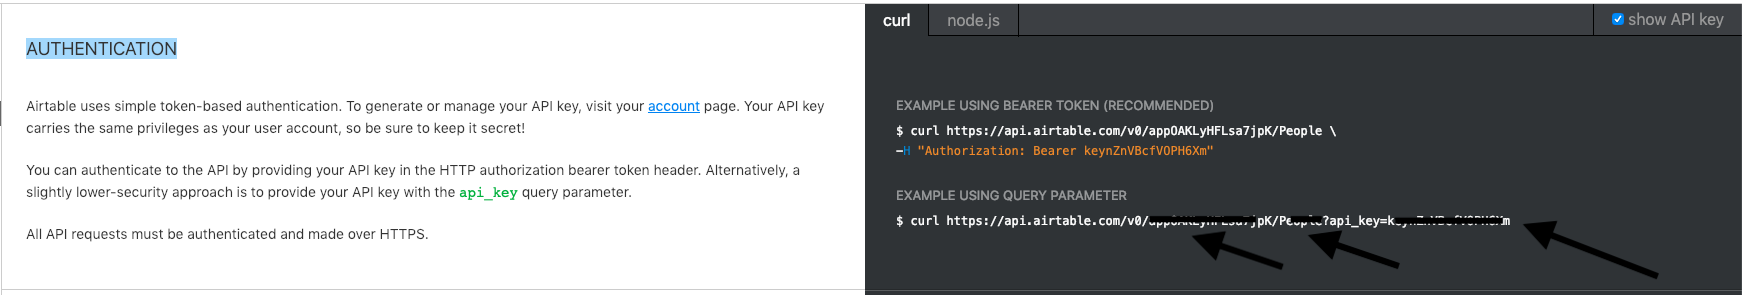
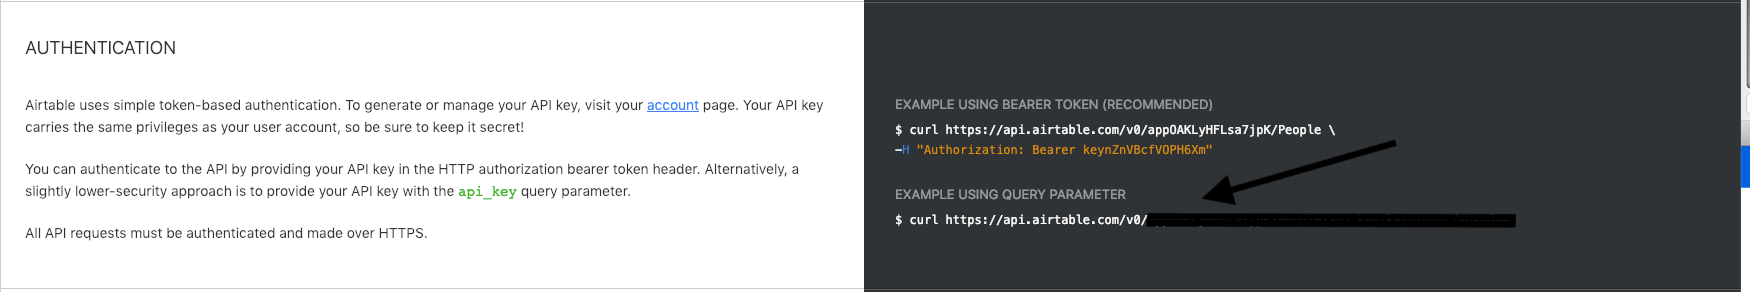
modified tutorial, added list.txt.

diff --git a/lambda-function/index.js b/lambda-function/index.js
@@ -1,11 +1,11 @@
 const axios = require('axios');
-
+const AIRTABLE_VARS = getAirtableVariablesFromUrl();
 var Airtable = require('airtable');
 Airtable.configure({
     endpointUrl: 'https://api.airtable.com',
-    apiKey: process.env.AIRTABLE_ADMIN_TOKEN
+    apiKey: AIRTABLE_VARS.AIRTABLE_ADMIN_TOKEN
 });
-var base = Airtable.base(process.env.AIRTABLE_BASE);
+var base = Airtable.base(AIRTABLE_VARS.AIRTABLE_BASE);
 
 const GITHUB = {
     access_token : process.env.GITHUB_ACCESS_TOKEN 
@@ -32,6 +32,18 @@ async function getTeamIdFromUrl(){
     catch(e){
         throw new Error(e);
     }
+}
+
+function getAirtableVariablesFromUrl(){
+    const url = process.env.AIRTABLE_URL; // https://api.airtable.com/v0/appOAKLyHFLsa7jpK/People?api_key=keynZnVBcfVOPH6Xm
+    const coincidence = '/v0/';
+    let ans = {};
+    let index = url.indexOf(coincidence) + coincidence.length;
+    ans.AIRTABLE_BASE = url.substring(index, url.indexOf('/', index));
+    index = url.indexOf('/', index);
+    ans.AIRTABLE_BASE_TABLE = url.substring(index, url.indexOf('?', index));
+    ans.AIRTABLE_ADMIN_TOKEN = url.substring(url.indexOf('api_key=', index));
+    return ans;
 }
 
 async function addGithub(username){
@@ -77,7 +89,7 @@ async function addAirTable(fullname, email, username){
         "Github Username": `@${username}`
     }
     try{
-        const res = await base(process.env.AIRTABLE_BASE_TABLE).create(data);
+        const res = await base(AIRTABLE_VARS.AIRTABLE_BASE_TABLE).create(data);
         return res;
     }
     catch(e){

diff --git a/react-form/src/Form.js b/react-form/src/Form.js
@@ -39,9 +39,11 @@ class CustomForm extends Component {
                 // Lambda Response
                 console.log('Response from lambda: ');
                 console.log(lambdaResponse);
+                alert('Success in POST');
             } catch(e) {
                 // statements
                 console.log(e);
+                alert('Fail in POST');
             }
         }
     }

diff --git a/README.md b/README.md
@@ -10,20 +10,17 @@ This repository contains a form built with [Create React App](https://github.com
 * Unix like OS (Tested on Mac OS X).
 
 ## Testing using the AWS CloudFormation web app
-Before proceeding to use the Cloudformation App you'll need a couple of variables
-1. A name for the resulting aplication.
-2. The GitHub Admin Access Key
-3. The GitHub Group (in which you want the new members to be inserted) Url
+Before proceeding to use the Cloudformation App you'll need a couple of variables.
+We provide a small list where you can map the variabes you are getting with the number of variables below.
 
-4. The Airtable Admin Token.
-5. The Airtable Base Id.
-6. The Airtable Base Table Name.
+1. The GitHub Admin Access Key
+2. The GitHub Group (in which you want the new members to be inserted) Url <br>
+--- [Guide for GitHub variables](docs/github.md) ---<br>
 
-6. The MailChimp API key.
-7. The Mailchimp DataCenter.
-8. The Mailchimp List ID.
+3. The Airtable API Url. <br>
+--- [Guide for Airtable](docs/airtable.md) ---<br>
 
-Follow these guides to access each service variables:
-1. [GitHub](docs/github.md)
-2. [MailChimp](docs/mailchimp.md) 
-3. [airtable](docs/airtable.md)
+4. The MailChimp API key.
+5. The Mailchimp DataCenter.
+6. The Mailchimp List ID. <br>
+--- [Guide for MailChimp variables](docs/mailchimp.md) ---<br>

diff --git a/docs/airtable.md b/docs/airtable.md
@@ -2,16 +2,31 @@
 
 ## Generating the Airtable API Key
 1. Login to airtable:
-2. Create a table like this:<br>
+2. Enter https://airtable.com/account
+3. Click on generate API Key
+4. Copy the API Key
+
+## Creating the Airtable Table
+1. Create a table (you can use a base or start from scratch) with these parameters:<br>
 ![First Image][0]
-3. Go to https://airtable.com/api
-4. Enter to extras/API Keys.
-5. Select the table you want:<br>
+The parameters are:
+* Table name: People
+* Fields:
+    * Name (Type = Text)
+    * Registered (Type = Check)
+    * Email (Type = Email)
+    * Github Username (Type = Text)
+
+## Getting the Airtable Url
+1. Go to https://airtable.com/api
+3. Enter to extras/API Keys.
+4. Select the table you want:<br>
 ![Second Image][1]
 6. Click on show API Key.
-7. In the AUTHENTICATION section get the API base (first arrow), the base table name (second arrow), the API key (third arrow)
+7. In the AUTHENTICATION section get the API URL without the cURL instruction.
 <br>
 ![Third Image][2]
+In this for example the url would be: https:// ...
 
 [0]: images/airtable0.png "Image 1"
 [1]: images/airtable1.png "Image 2"

diff --git a/docs/mailchimp.md b/docs/mailchimp.md
@@ -14,6 +14,13 @@
 [1]: images/mailchimp1.png "Image 2"
 [2]: images/mailchimp2.png "Image 3"
 
+## Getting the MailChimp Data Center
+1. The mailchimp data center is the first part of the url you are accessing to:
+for example you can see in image one that my data center is: us-20 <br>
+![Seventh Image][6]
+
+[6]: images/mailchimp6.png "Image 7"
+
 ## Getting the MailChimp List Id
 1. Enter to the lists tab.
 2. Enter to the list in which you want to include users: <br>

diff --git a/docs/github.md b/docs/github.md
@@ -5,7 +5,7 @@
 2. Enter https://github.com/settings/tokens
 3. Here generate a new token: 
 ![First Image][0]
-4. Check everything you need (I checked everything), and then "Generate token": 
+4. Name the token, check the admin:org permission, and then "Generate token": 
 ![Second Image][1]
 5. Copy your new token:<br>
 ![Third Image][2]
